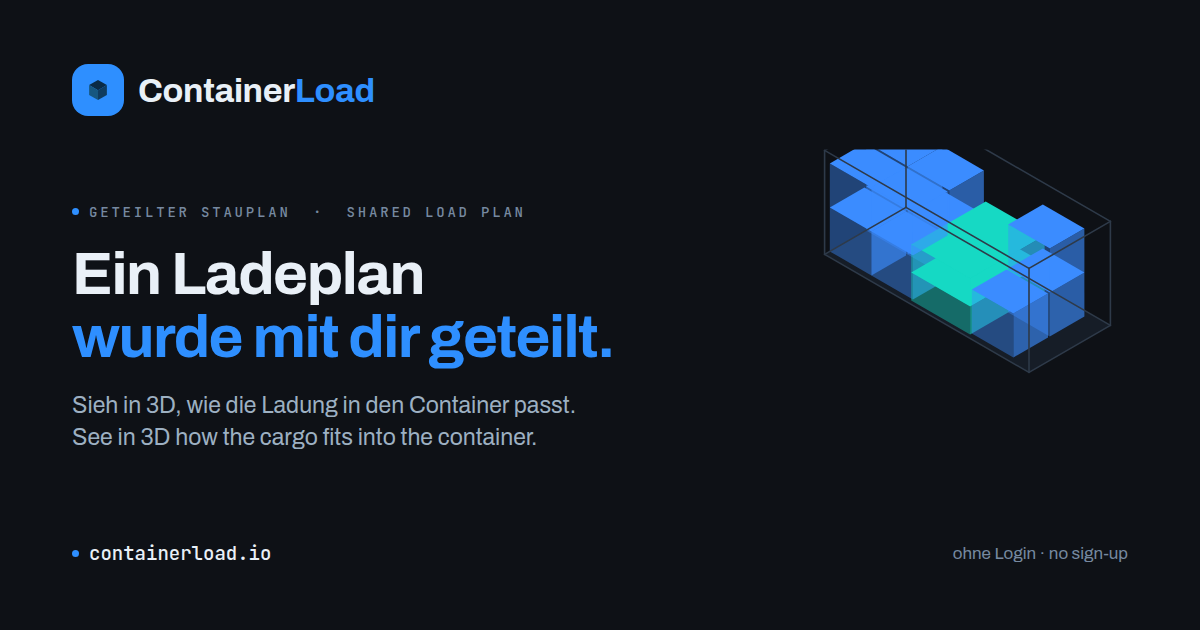
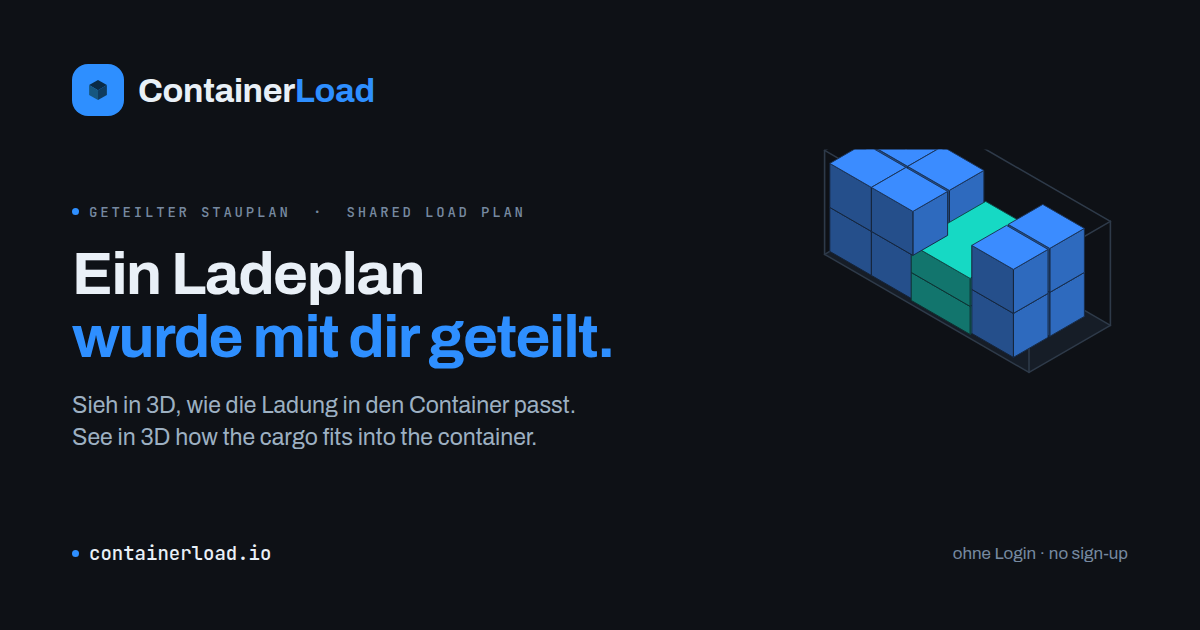
Vorschaubild: die Ladung ist nicht mehr durchsichtig
Gemeldet: "schau nochmal auf das Bild vom Container rechts, sieht ultra
komisch aus, Packstuecke sind irgendwie weirdly transparent".

Zwei Ursachen, beide meine: die Seitenflaechen waren mit fill-opacity
abgedunkelt, und das Drahtgitter der Huelle lag UEBER den Kisten. Zusammen
sah die Ladung aus wie aus Glas.

Jetzt deckende Flaechen mit gerechneter Abdunklung (gegen den Grundton
gemischt, nicht gegen Schwarz -- sonst kippen die Flanken ins Graue): oben
voll, rechte Flanke 72 %, linke 50 %. Die Huelle liegt dahinter. Dazu ein
vierter Block Paletten, damit die Stauung als saubere 2x2-Bloecke lesbar
ist statt als halb gefuellte Ecke.

Der Test haelt beides fest: kein fill-opacity-Attribut, und die Huelle
steht im Quelltext vor den Kisten. 357 Tests gruen.

Claude-Session: https://claude.ai/code/session_01MqSXbbzqpvkoZWovmBmkkk

Changed region(s): [[0.6783, 0.2413, 0.925, 0.5429], [0.6783, 0.2413, 0.7092, 0.2714]]

diff --git a/containerload.io/test/og/karte.html b/containerload.io/test/og/karte.html
@@ -107,27 +107,45 @@
     [2.4, 0.10, 0.7, 1.7, 2.15, 0.7, "#16D9C4"],
     [4.1, 0.15, 0.0, 1.2, 1.0, 1.1, "#3B8CFF"],
     [4.1, 1.20, 0.0, 1.2, 1.0, 1.1, "#3B8CFF"],
-    [4.1, 0.15, 1.1, 1.2, 1.0, 1.1, "#3B8CFF"]
+    [4.1, 0.15, 1.1, 1.2, 1.0, 1.1, "#3B8CFF"],
+    [4.1, 1.20, 1.1, 1.2, 1.0, 1.1, "#3B8CFF"]
   ];
   var teile
   var teile = [];
-  var poly = (pts, fill, op) => `<polygon points="${pts.map(p=>p[0].toFixed(1)+","+p[1].toFixed(1)).join(" ")}" fill="${fill}" fill-opacity="${op||1}"/>`;
-  var linie = (a,b,col,w) => `<line x1="${a[0].toFixed(1)}" y1="${a[1].toFixed(1)}" x2="${b[0].toFixed(1)}" y2="${b[1].toFixed(1)}" stroke="${col}" stroke-width="${w}" stroke-linecap="round"/>`;
+  // Deckende Flaechen, keine Transparenz. Mit fill-opacity schien das Drahtgitter durch die
+  // Kisten und die Ladung sah aus wie aus Glas -- so gemeldet. Die drei sichtbaren Seiten
+  // werden stattdessen ABGEDUNKELT: oben voll, rechte Flanke 72 %, linke 50 %. Das ist
+  // dieselbe Staffelung, die im 3D-Bild das Licht macht, nur ausgerechnet statt beleuchtet.
+  var dunkler = function (hex, f) {
+    var r = parseInt(hex.slice(1, 3), 16), g = parseInt(hex.slice(3, 5), 16), b = parseInt(hex.slice(5, 7), 16);
+    // Gegen den Grundton mischen, nicht gegen Schwarz -- sonst kippen die Flanken ins Graue.
+    var m = function (v, u) { return Math.round(u + (v - u) * f); };
+    return "#" + [m(r, 14), m(g, 17), m(b, 22)].map(function (v) { return ("0" + v.toString(16)).slice(-2); }).join("");
+  };
+  var poly = function (pts, fill) {
+    return '<polygon points="' + pts.map(function (p) { return p[0].toFixed(1) + "," + p[1].toFixed(1); }).join(" ") +
+      '" fill="' + fill + '" stroke="' + dunkler(fill, 0.3) + '" stroke-width="1" stroke-linejoin="round"/>';
+  };
+  var linie = function (a, b, col, w) {
+    return '<line x1="' + a[0].toFixed(1) + '" y1="' + a[1].toFixed(1) + '" x2="' + b[0].toFixed(1) +
+      '" y2="' + b[1].toFixed(1) + '" stroke="' + col + '" stroke-width="' + w + '" stroke-linecap="round"/>';
+  };
   // Boden des Containers
   teile.push(poly([P(0,0,0),P(CL,0,0),P(CL,CW,0),P(0,CW,0)], "#161D27"));
-  // Kisten von hinten nach vorne
-  kisten.slice().sort((a,b)=>(a[0]+a[1]+a[2])-(b[0]+b[1]+b[2])).forEach(function (k) {
-    var x=k[0],y=k[1],z=k[2],dx=k[3],dy=k[4],dz=k[5],f=k[6];
-    var A=P(x,y,z+dz), B=P(x+dx,y,z+dz), Cq=P(x+dx,y+dy,z+dz), D=P(x,y+dy,z+dz);
-    teile.push(poly([A,B,Cq,D], f, 1));                                        // oben
-    teile.push(poly([B,Cq,P(x+dx,y+dy,z),P(x+dx,y,z)], f, 0.62));              // rechte Flanke
-    teile.push(poly([D,Cq,P(x+dx,y+dy,z),P(x,y+dy,z)], f, 0.42));              // linke Flanke
-  });
-  // Huelle als Drahtgitter
+  // Die Huelle liegt HINTER der Ladung. Vorher lag sie darueber und zog Linien quer durch
+  // die Kisten -- zusammen mit der Transparenz war das der Glas-Eindruck.
   var e = [[0,0,0,CL,0,0],[0,CW,0,CL,CW,0],[0,0,0,0,CW,0],[CL,0,0,CL,CW,0],
            [0,0,CH,CL,0,CH],[0,CW,CH,CL,CW,CH],[0,0,CH,0,CW,CH],[CL,0,CH,CL,CW,CH],
            [0,0,0,0,0,CH],[CL,0,0,CL,0,CH],[0,CW,0,0,CW,CH],[CL,CW,0,CL,CW,CH]];
-  e.forEach(q => teile.push(linie(P(q[0],q[1],q[2]), P(q[3],q[4],q[5]), "#2E3A49", 1.6)));
+  e.forEach(function (q) { teile.push(linie(P(q[0],q[1],q[2]), P(q[3],q[4],q[5]), "#2E3A49", 1.6)); });
+  // Kisten von hinten nach vorne
+  kisten.slice().sort(function (a, b) { return (a[0]+a[1]+a[2]) - (b[0]+b[1]+b[2]); }).forEach(function (k) {
+    var x=k[0],y=k[1],z=k[2],dx=k[3],dy=k[4],dz=k[5],f=k[6];
+    var A=P(x,y,z+dz), B=P(x+dx,y,z+dz), Cq=P(x+dx,y+dy,z+dz), D=P(x,y+dy,z+dz);
+    teile.push(poly([B,Cq,P(x+dx,y+dy,z),P(x+dx,y,z)], dunkler(f, 0.72)));   // rechte Flanke
+    teile.push(poly([D,Cq,P(x+dx,y+dy,z),P(x,y+dy,z)], dunkler(f, 0.50)));   // linke Flanke
+    teile.push(poly([A,B,Cq,D], f));                                          // oben
+  });
   var el = document.getElementById("bild");
   el.innerHTML = `<g transform="translate(232,58)">${teile.join("")}</g>`;
 })();

diff --git a/containerload.io/CLAUDE.md b/containerload.io/CLAUDE.md
@@ -441,6 +441,8 @@ Nebenbei korrigiert: auf der alten Karte stand **„Ein Ladeplan wurde dir getei
 
 Die rechte Bildhälfte ist ausgenommen: dort stehen die **Kennfarben der Packstücke** (`TYPE_COLORS`), und die sind absichtlich bunt — sie tragen Information.
 
+**Die Ladung ist deckend gezeichnet, die Hülle liegt dahinter.** Erste Fassung: die Seitenflächen waren mit `fill-opacity` abgedunkelt und das Drahtgitter lag über den Kisten — gemeldet als *„Packstücke sind irgendwie weirdly transparent"*, und genau so sah es aus. Abgedunkelt wird jetzt **gerechnet** (`dunkler()` mischt gegen den Grundton, nicht gegen Schwarz — sonst kippen die Flanken ins Graue): oben voll, rechte Flanke 72 %, linke 50 %. Dieselbe Staffelung, die im 3D-Bild das Licht macht, nur ausgerechnet statt beleuchtet. Der Test prüft beides — kein `fill-opacity`-Attribut, und die Hülle steht im Quelltext **vor** den Kisten.
+
 ### Die Container-Kette: zwei Grenzen, zwei Fragen
 `MAXCHAIN = 24` wird **gerechnet**, `MAXDRAW = 8` wird **gezeichnet**. Vorher galt für beides 4 — an zwei Stellen unabhängig voneinander als Literal. Wer 39 Paletten eingab, sah vier Hüllen und darunter „15 offen · weitere Container nötig", ohne je zu erfahren, wie viele. Es sind sieben.
 
